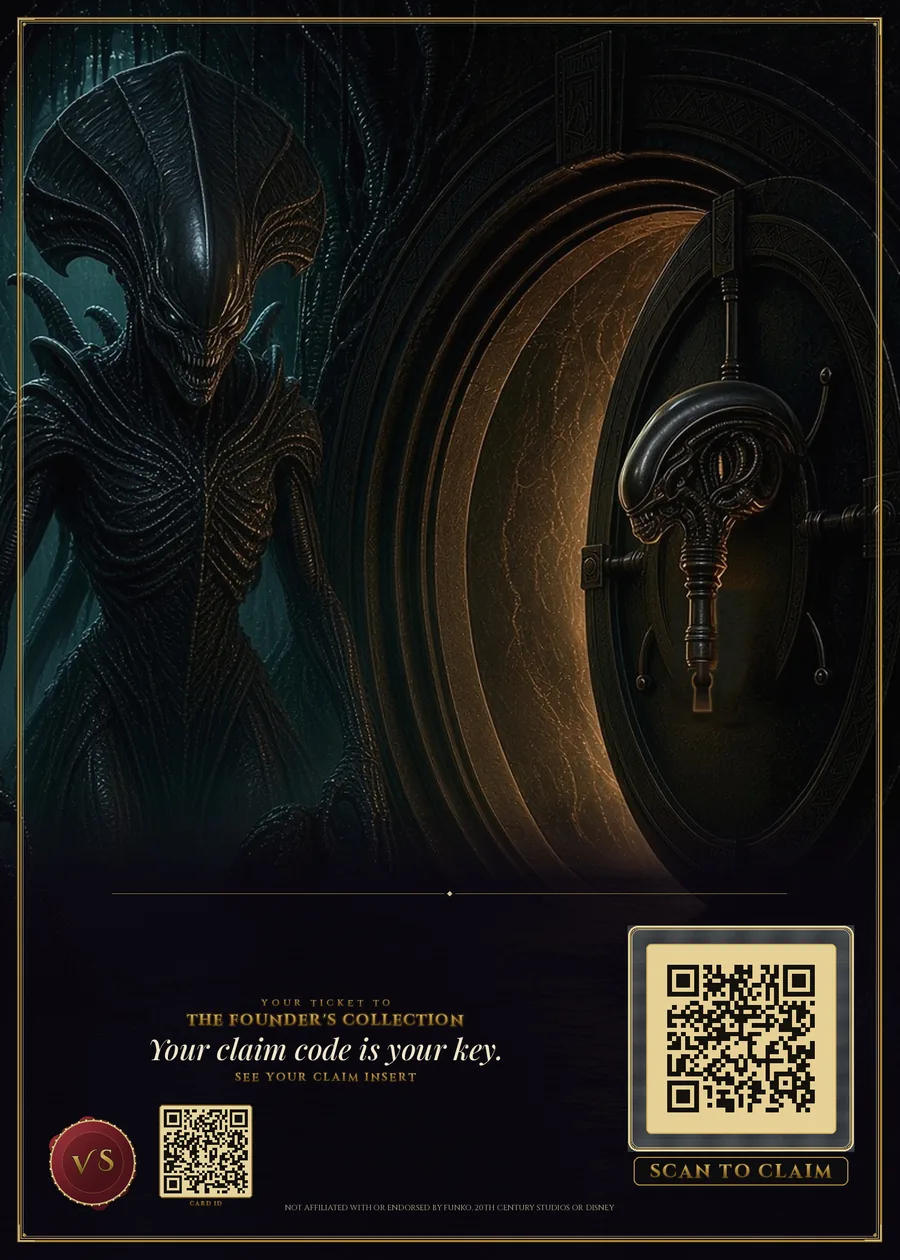
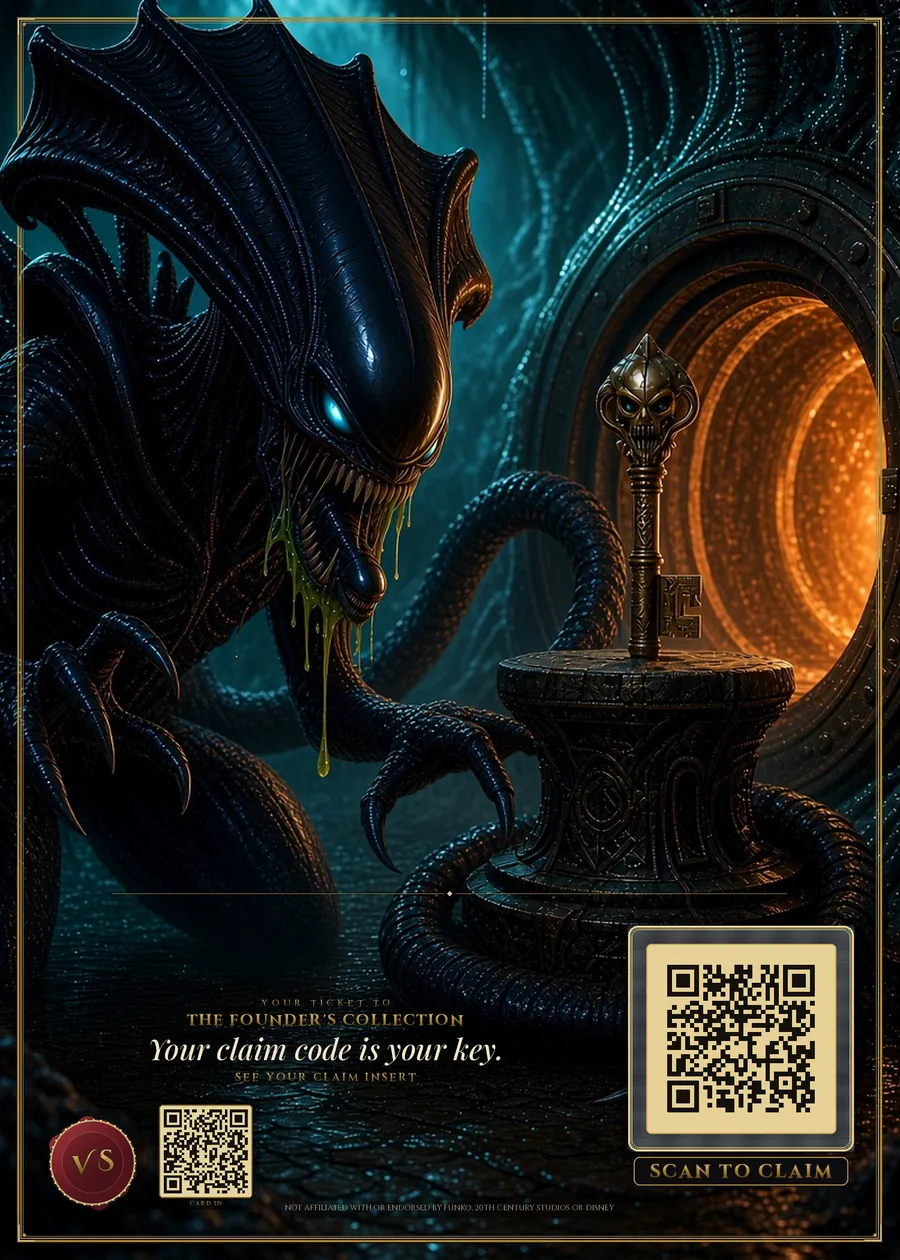
Card 013 art refresh, claim-page media, and sold/shipped dates
Update Alien Queen 013 card art and let a claim page play that
card's song or video when one is set. Show sold and shipped
dates on the 013 page, and add a short coming-soon teaser.

diff --git a/assets/vault-app.js b/assets/vault-app.js
@@ -28,6 +28,17 @@
       return new Date(iso).toLocaleDateString("en-US", { timeZone: "America/New_York", month: "short", day: "numeric", year: "numeric" });
     } catch (e) { return ""; }
   }
+  function prettyDate(value) {
+    if (!value) return "";
+    if (/^\d{4}-\d{2}-\d{2}$/.test(value)) return fmtDate(value + "T12:00:00-05:00");
+    return fmtDate(value) || value;
+  }
+  function cardMedia(info) {
+    var video = null, song = null;
+    if (info && info.video) video = typeof info.video === "string" ? DATA.videos[info.video] : info.video;
+    if (info && info.song) song = info.song;
+    return { video: video || null, song: song || null };
+  }
   function cardUrl(no) { return BASE + "?card=" + no; }
   function cardInfo(no) { return DATA.cards[no] || null; }
   function setStatus(el, msg, kind) {
@@ -373,7 +384,12 @@
     document.title = "No. " + no + (info ? " · " + info.name : "") + " · The Vaulted Shelf";
 
     var reveal = info && info.reveal && cfg.reveals && cfg.reveals[info.reveal];
-    var video = info && info.video && DATA.videos[info.video];
+    var media = cardMedia(info);
+    var video = media.video;
+    var song = media.song;
+    var dates = [];
+    if (info && info.sold) dates.push("<span>Sold</span> " + esc(prettyDate(info.sold)));
+    if (info && info.shipped) dates.push("<span>Shipped</span> " + esc(prettyDate(info.shipped)));
     var art = info && info.art
       ? '<div class="flip" id="flip"><div class="flip-inner">' +
           '<div class="flip-face front">' + picture(no, "front", "(min-width: 900px) 26rem, 92vw", "", "Card No. " + no + " front", true) + '</div>' +
@@ -389,6 +405,7 @@
         '<h1>' + esc(title) + '</h1>' +
         (info ? '<p class="cp-sub">' + esc([info.line, info.pop, info.tier].filter(Boolean).join(" · ")) + '</p>' : "") +
         (info && info.note ? '<p class="tiny" style="margin-top:.3rem">' + esc(info.note) + '</p>' : "") +
+        (dates.length ? '<ul class="cp-dates">' + dates.map(function (x) { return "<li>" + x + "</li>"; }).join("") + "</ul>" : "") +
         '<p class="claim-badge" id="cp-badge" aria-live="polite">Checking the vault…</p>' +
       '</div>' +
       '<div class="cp-grid">' +
@@ -396,10 +413,9 @@
         '<div class="cp-side">' +
           '<section class="vpanel" id="cp-claim" aria-label="Claim this card" hidden></section>' +
           (reveal ? '<section class="vpanel" aria-labelledby="cp-rv"><h2 id="cp-rv">Character reveal</h2><div class="media portrait" style="margin-top:.6rem">' + videoCover(reveal.mp4, reveal.poster.replace(/\.jpg$/, ".webp"), "Play the " + title + " reveal", null, reveal.webm) + '</div></section>' : "") +
-          '<section class="vpanel" aria-labelledby="cp-mv"><h2 id="cp-mv">Music video</h2>' +
-            (video ? '<div class="media portrait" style="margin-top:.6rem">' + videoCover(video.src, video.poster, "Play the " + video.title + " music video", video.duration) + '</div>'
-                   : '<div class="slot-empty" style="margin-top:.6rem"><div><strong>Coming to the vault</strong>This card\'s music video is still being forged. <a href="' + BASE + 'videos/">Watch Vault Videos</a></div></div>') +
-          '</section>' +
+          (video ? '<section class="vpanel" aria-labelledby="cp-mv"><h2 id="cp-mv">Music video</h2><div class="media portrait" style="margin-top:.6rem">' + videoCover(video.src, video.poster, "Play the " + (video.title || title) + " music video", video.duration) + '</div></section>' : "") +
+          (song ? '<section class="vpanel" aria-labelledby="cp-song"><h2 id="cp-song">' + esc(song.title || "Song") + '</h2><audio class="vault-audio" controls preload="none" src="' + esc(song.src) + '"' + (song.type ? ' type="' + esc(song.type) + '"' : "") + '></audio></section>' : "") +
+          '<section class="vpanel teaser-soon" aria-labelledby="cp-soon"><h2 id="cp-soon">Coming soon from the Vault</h2><p>More collector cards, original videos, and keys to the Founder\'s Collection. Watch this space.</p></section>' +
           '<a class="btn btn-primary" href="' + STORE + '" rel="noopener">Shop on eBay</a>' +
           '<div class="cp-nav">' +
             (prev ? '<a class="btn btn-ghost btn-sm" href="' + cardUrl(prev) + '">← No. ' + prev + '</a>' : "<span></span>") +

diff --git a/assets/vault-data.js b/assets/vault-data.js
@@ -1,6 +1,12 @@
 /* The Vaulted Shelf — card and video registry (public, safe to publish).
    Never put order numbers, claim codes, or puzzle answers in this file.
-   Card art is generated by the art pipeline with the order line scrubbed. */
+   Card art is generated by the art pipeline with the order line scrubbed.
+
+   Optional per-card media (only when a Pop has a song or music video):
+     video: "id"                 — key into VAULT_DATA.videos, plays on the claim page
+     song:  { title, src, ... }  — optional audio track on the claim page
+   Leave both off when there is no media yet (do not invent a placeholder track).
+*/
 window.VAULT_DATA = {
   cards: {
     "001": { name: "Marvin the Martian", line: "Looney Tunes", pop: "#415", tier: "Founder", note: "Founder's card · reserved", art: false, video: "marvin-415" },
@@ -15,7 +21,7 @@ window.VAULT_DATA = {
     "010": { name: "The Nun", line: "WB Horror", pop: "#2062", tier: "Collector", art: true },
     "011": { name: "La Llorona", line: "WB Horror", pop: "#2061", tier: "Collector", art: true },
     "012": { name: "Regan", line: "The Exorcist", pop: "#2058", tier: "Collector", art: true },
-    "013": { name: "Alien Queen", line: "Aliens 35th", pop: "#1171", tier: "Collector", art: true }
+    "013": { name: "Alien Queen", line: "Aliens 35th", pop: "#1171", tier: "Collector", art: true, sold: "2026-11-16", shipped: "2026-11-18" }
   },
   // Vault Videos. src paths are relative to the site root.
   videos: {

diff --git a/assets/vault.css b/assets/vault.css
@@ -241,3 +241,9 @@ a.wall-item:hover { border-color: rgba(243,208,137,0.45); }
 .linkish:hover { color: var(--gold-bright); }
 .linkish:focus-visible { outline: 2px solid var(--gold); outline-offset: 3px; border-radius: 4px; }
 .claim-badge.is-founder { border-color: rgba(243, 208, 137, 0.55); color: var(--gold-bright); background: linear-gradient(180deg, rgba(243,208,137,0.12), rgba(243,208,137,0.04)); }
+
+.cp-dates { list-style: none; display: flex; flex-wrap: wrap; justify-content: center; gap: 0.45rem 1.1rem; margin: 0.7rem 0 0; padding: 0; color: var(--muted); font-size: 0.86rem; letter-spacing: 0.04em; }
+.cp-dates span { color: var(--gold); font-family: var(--font-display); letter-spacing: 0.12em; text-transform: uppercase; font-size: 0.68rem; margin-right: 0.35rem; }
+.teaser-soon h2 { font-size: 0.95rem; }
+.teaser-soon p { color: var(--muted); font-size: 0.9rem; margin-top: 0.35rem; }
+.vault-audio { width: 100%; margin-top: 0.6rem; }
